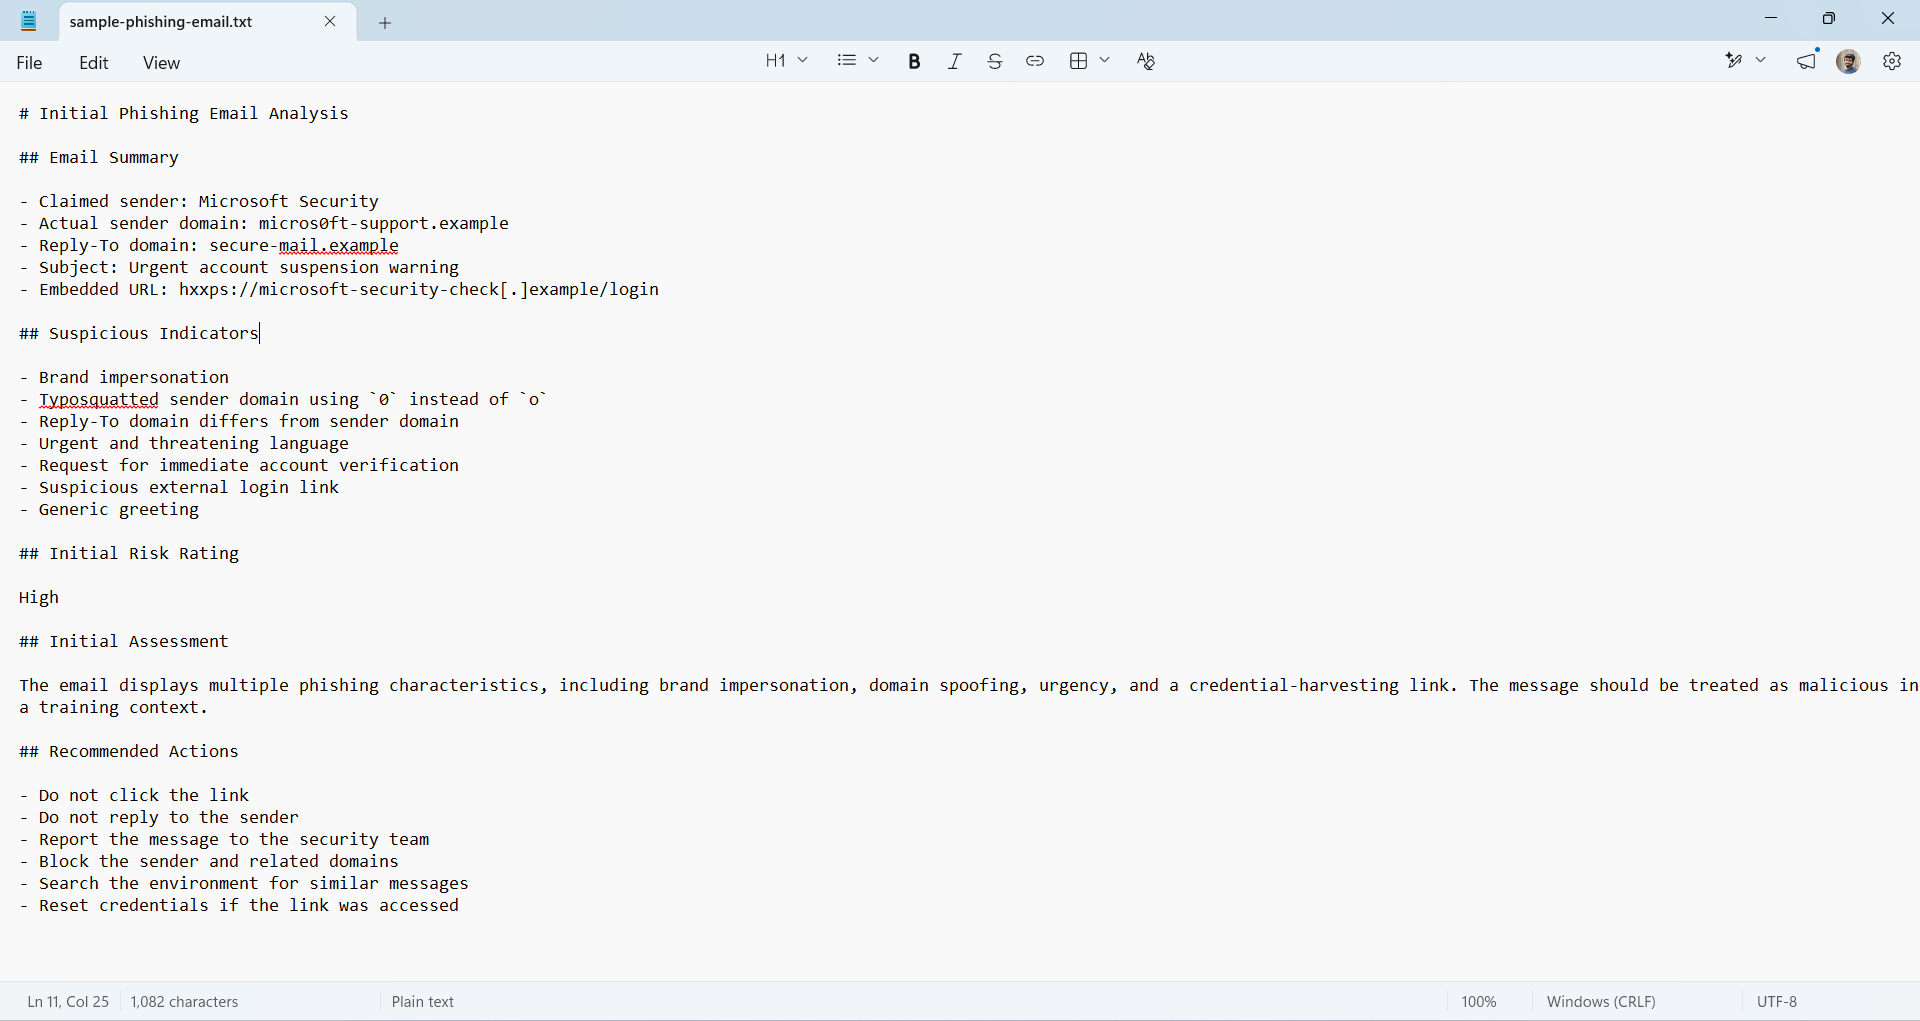
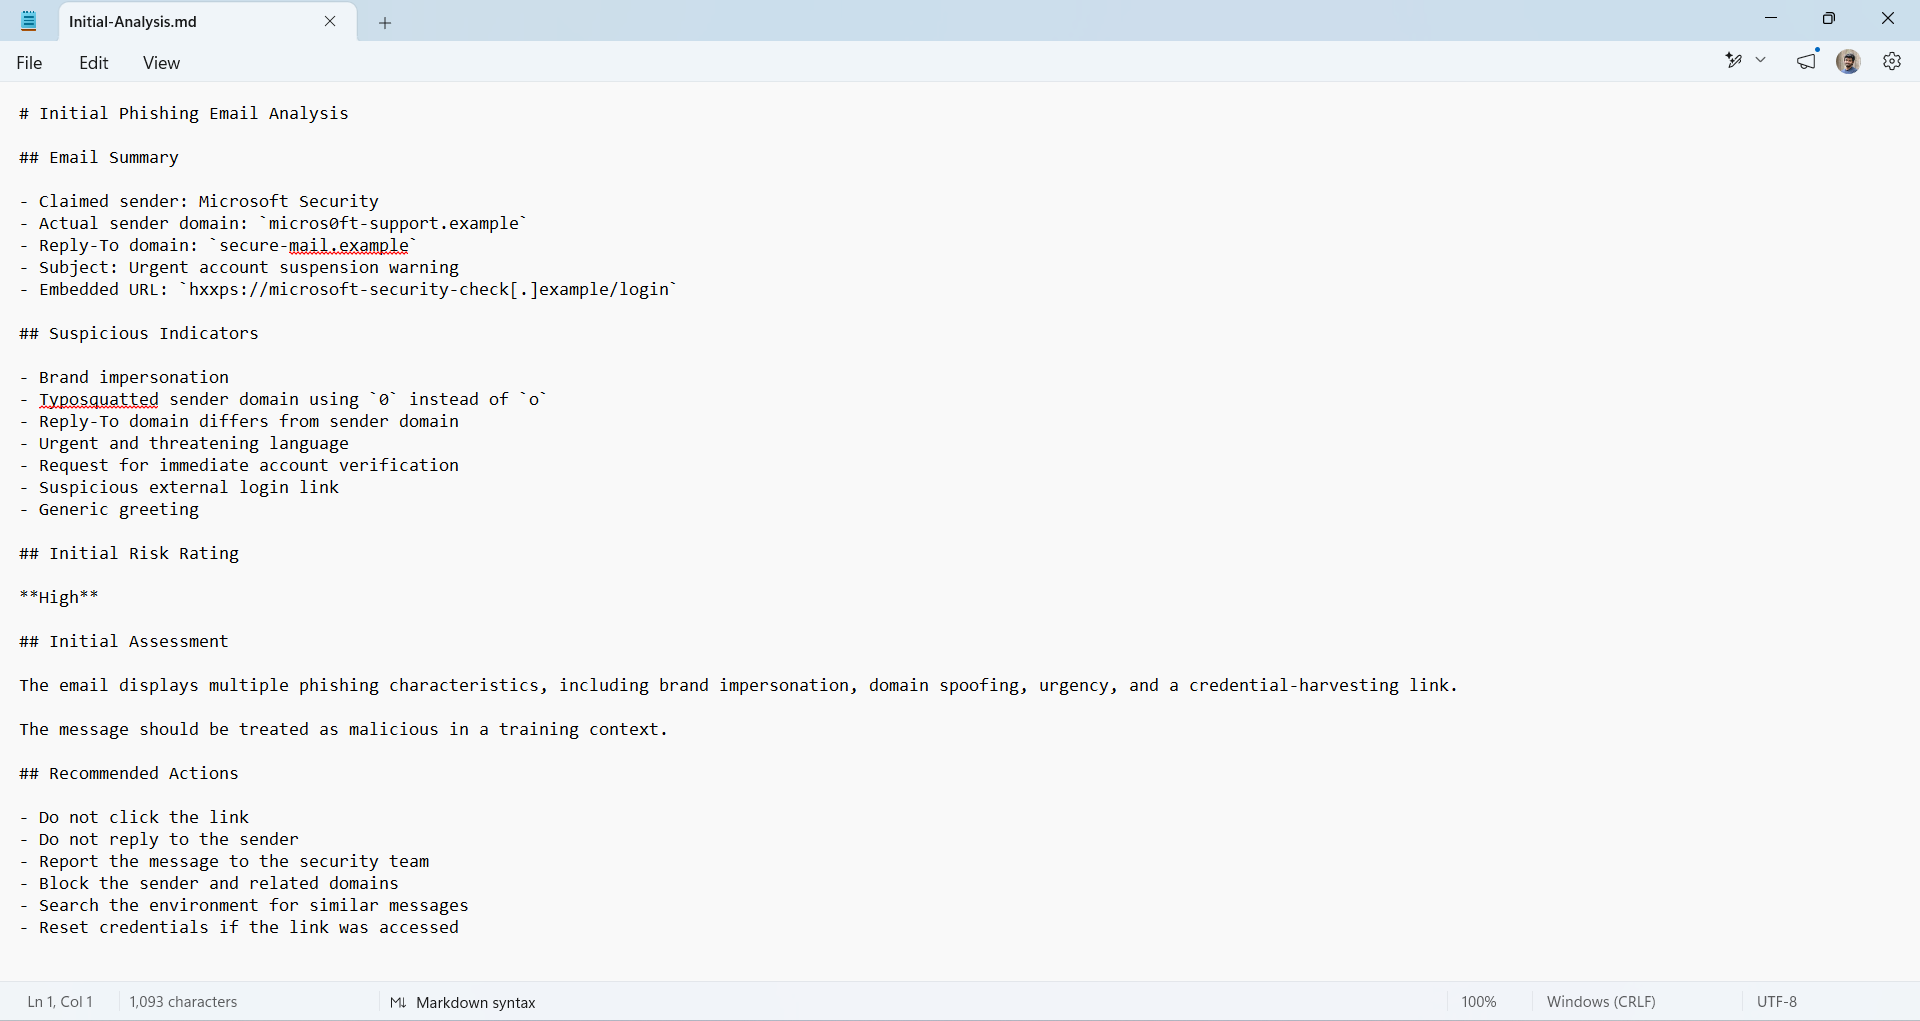
Fix README formatting and add screenshots

diff --git a/README.md b/README.md
@@ -1,272 +1,153 @@
-\# Phishing Email Investigation
+# Phishing Email Investigation
 
-
-
-\## Overview
-
-
+## Overview
 
 This project demonstrates a SOC-style investigation of a simulated phishing email.
 
+The analysis focused on sender validation, domain mismatches, suspicious language, defanged URLs, IOC extraction, risk assessment, MITRE ATT&CK mapping, and recommended response actions.
 
+## Objectives
 
-The analysis focused on sender validation, domain mismatches, suspicious language, defanged URLs, IOC extraction, risk assessment, MITRE ATT\&CK mapping, and recommended response actions.
+- Analyse a simulated phishing email
+- Identify brand impersonation and typosquatting
+- Review sender and Reply-To mismatches
+- Extract and document indicators of compromise
+- Assess phishing risk
+- Map observed behaviour to MITRE ATT&CK
+- Document recommended response actions
+- Preserve privacy and avoid using live malicious content
 
+## Tools and Methods
 
+- Manual email analysis
+- IOC extraction
+- Markdown reporting
+- CSV documentation
+- MITRE ATT&CK mapping
+- GitHub
+- Defanged URL handling
 
-\## Objectives
-
-
-
-\- Analyse a simulated phishing email
-
-\- Identify brand impersonation and typosquatting
-
-\- Review sender and Reply-To mismatches
-
-\- Extract and document indicators of compromise
-
-\- Assess phishing risk
-
-\- Map observed behaviour to MITRE ATT\&CK
-
-\- Document recommended response actions
-
-\- Preserve privacy and avoid using live malicious content
-
-
-
-\## Tools and Methods
-
-
-
-\- Manual email analysis
-
-\- IOC extraction
-
-\- Markdown reporting
-
-\- CSV documentation
-
-\- MITRE ATT\&CK mapping
-
-\- GitHub
-
-\- Defanged URL handling
-
-
-
-\## Email Summary
-
-
+## Email Summary
 
 | Field | Observation |
-
 |---|---|
-
 | Claimed sender | Microsoft Security |
-
 | Sender domain | `micros0ft-support.example` |
-
 | Reply-To domain | `secure-mail.example` |
-
 | Subject | Urgent Microsoft 365 account suspension warning |
-
-| Embedded URL | `hxxps://microsoft-security-check\[.]example/login` |
-
+| Embedded URL | `hxxps://microsoft-security-check[.]example/login` |
 | Attachment | None |
-
 | Risk rating | High |
 
+## Suspicious Indicators
 
+- Microsoft 365 brand impersonation
+- Typosquatted sender domain using `0` instead of `o`
+- Reply-To domain differs from sender domain
+- Urgent account-suspension language
+- Request for immediate account verification
+- Suspicious credential-verification link
+- Generic greeting
+- User interaction required
 
-\## Suspicious Indicators
-
-
-
-\- Microsoft 365 brand impersonation
-
-\- Typosquatted sender domain using `0` instead of `o`
-
-\- Reply-To domain differs from sender domain
-
-\- Urgent account-suspension language
-
-\- Request for immediate account verification
-
-\- Suspicious credential-verification link
-
-\- Generic greeting
-
-\- User interaction required
-
-
-
-\## IOC Summary
-
-
+## IOC Summary
 
 | Indicator Type | Indicator | Assessment |
-
 |---|---|---|
-
 | Sender domain | `micros0ft-support.example` | Simulated suspicious |
-
 | Reply-To domain | `secure-mail.example` | Simulated suspicious |
-
-| URL | `microsoft-security-check\[.]example/login` | Defanged simulated indicator |
-
+| URL | `microsoft-security-check[.]example/login` | Defanged simulated indicator |
 | Subject | Urgent account suspension warning | Suspicious social-engineering language |
-
 | Brand | Microsoft 365 | Impersonated |
 
-
-
-\## MITRE ATT\&CK Mapping
-
-
+## MITRE ATT&CK Mapping
 
 | Technique ID | Technique | Evidence |
-
 |---|---|---|
-
 | T1566.002 | Phishing: Spearphishing Link | Suspicious verification link embedded in the email |
-
 | T1204.001 | User Execution: Malicious Link | Recipient is encouraged to click the link |
 
+## Risk Assessment
 
-
-\## Risk Assessment
-
-
-
-\*\*Overall rating: High\*\*
-
-
+**Overall rating: High**
 
 Potential impact includes:
 
+- Account compromise
+- Unauthorised mailbox access
+- Credential reuse
+- Internal phishing
+- Data exposure
+- Additional social-engineering attacks
 
+## Recommended Response
 
-\- Account compromise
+- Quarantine the email
+- Do not click the link
+- Do not reply to the sender
+- Block related domains
+- Search for similar messages
+- Review URL-click telemetry
+- Reset credentials if the link was accessed
+- Revoke active sessions where compromise is suspected
+- Report the incident to the security team
 
-\- Unauthorised mailbox access
-
-\- Credential reuse
-
-\- Internal phishing
-
-\- Data exposure
-
-\- Additional social-engineering attacks
-
-
-
-\## Recommended Response
-
-
-
-\- Quarantine the email
-
-\- Do not click the link
-
-\- Do not reply to the sender
-
-\- Block related domains
-
-\- Search for similar messages
-
-\- Review URL-click telemetry
-
-\- Reset credentials if the link was accessed
-
-\- Revoke active sessions where compromise is suspected
-
-\- Report the incident to the security team
-
-
-
-\## Repository Structure
-
-
+## Repository Structure
 
 ```text
-
 phishing-email-investigation
-
 ├── Evidence
-
 ├── IOCs
-
 │   └── indicators.csv
-
 ├── Reports
-
 │   ├── Initial-Analysis.md
-
 │   ├── MITRE-ATTACK-Mapping.md
-
 │   └── Risk-Assessment.md
-
 ├── Sample-Email
-
 │   └── sample-phishing-email.txt
-
 ├── Screenshots
-
+│   ├── 01-Simulated-Phishing-Email.png
+│   ├── 02-IOC-Summary.png
+│   └── 03-Initial-Phishing-Analysis.png
 ├── Tools
-
 ├── .gitignore
-
 └── README.md
-
 ```
 
+## Screenshots
 
+### Simulated Phishing Email
 
-\## Skills Demonstrated
+![Simulated Phishing Email](Screenshots/01-Simulated-Phishing-Email.png)
 
+### IOC Summary
 
+![IOC Summary](Screenshots/02-IOC-Summary.png)
 
-\- Phishing email analysis
+### Initial Phishing Analysis
 
-\- IOC extraction
+![Initial Phishing Analysis](Screenshots/03-Initial-Phishing-Analysis.png)
 
-\- Email-threat assessment
+## Skills Demonstrated
 
-\- Social-engineering analysis
+- Phishing email analysis
+- IOC extraction
+- Email-threat assessment
+- Social-engineering analysis
+- MITRE ATT&CK mapping
+- Security reporting
+- Risk assessment
+- Safe handling of suspicious content
+- Git and GitHub documentation
 
-\- MITRE ATT\&CK mapping
-
-\- Security reporting
-
-\- Risk assessment
-
-\- Safe handling of suspicious content
-
-\- Git and GitHub documentation
-
-
-
-\## Safety Notice
-
-
+## Safety Notice
 
 This project uses a simulated phishing email and defanged indicators.
 
-
-
 No live malicious URL, credential-harvesting page, or harmful attachment was used.
 
+## Reports
 
-
-\## Reports
-
-
-
-\- \[Initial Analysis](Reports/Initial-Analysis.md)
-
-\- \[MITRE ATT\&CK Mapping](Reports/MITRE-ATTACK-Mapping.md)
-
-\- \[Risk Assessment](Reports/Risk-Assessment.md)
-
+- [Initial Analysis](Reports/Initial-Analysis.md)
+- [MITRE ATT&CK Mapping](Reports/MITRE-ATTACK-Mapping.md)
+- [Risk Assessment](Reports/Risk-Assessment.md)